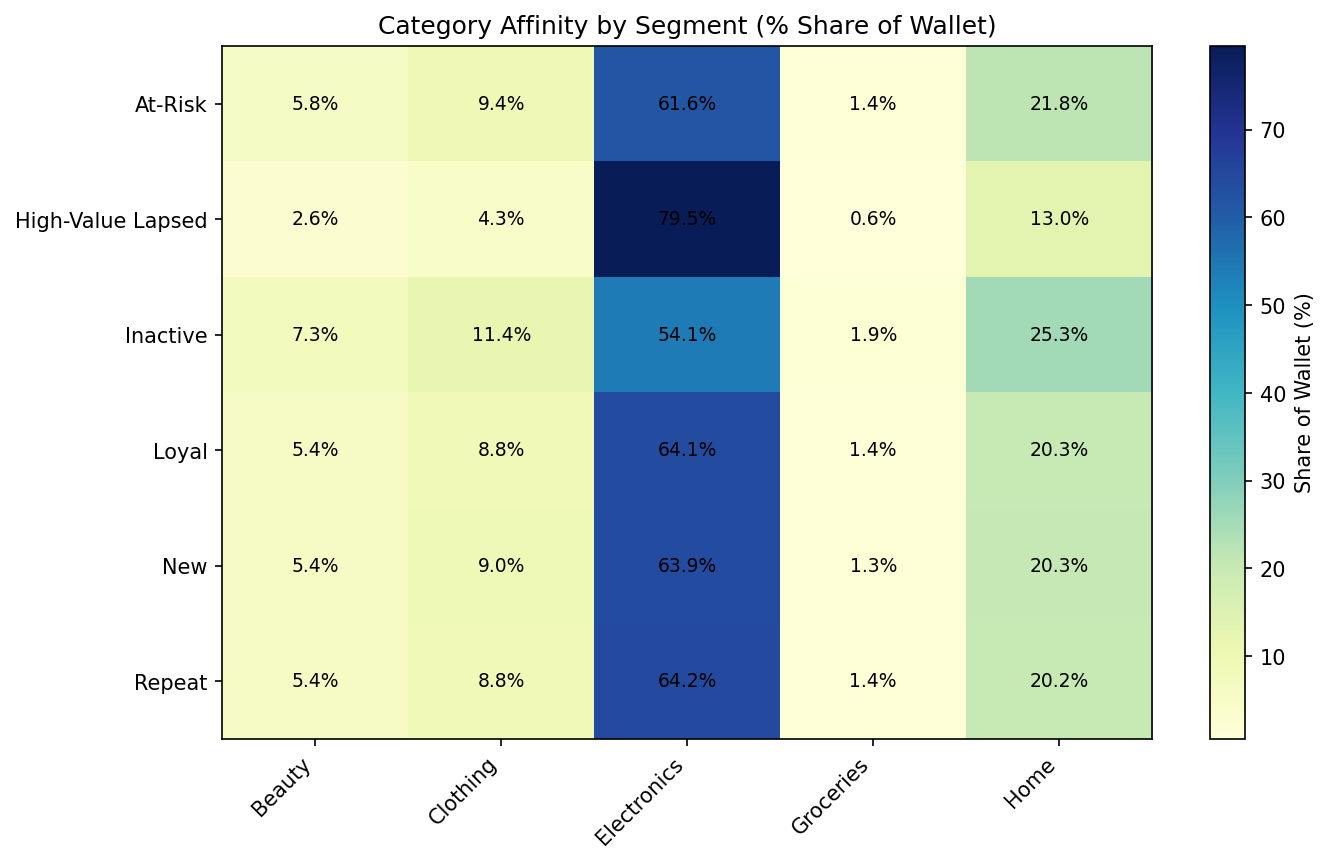
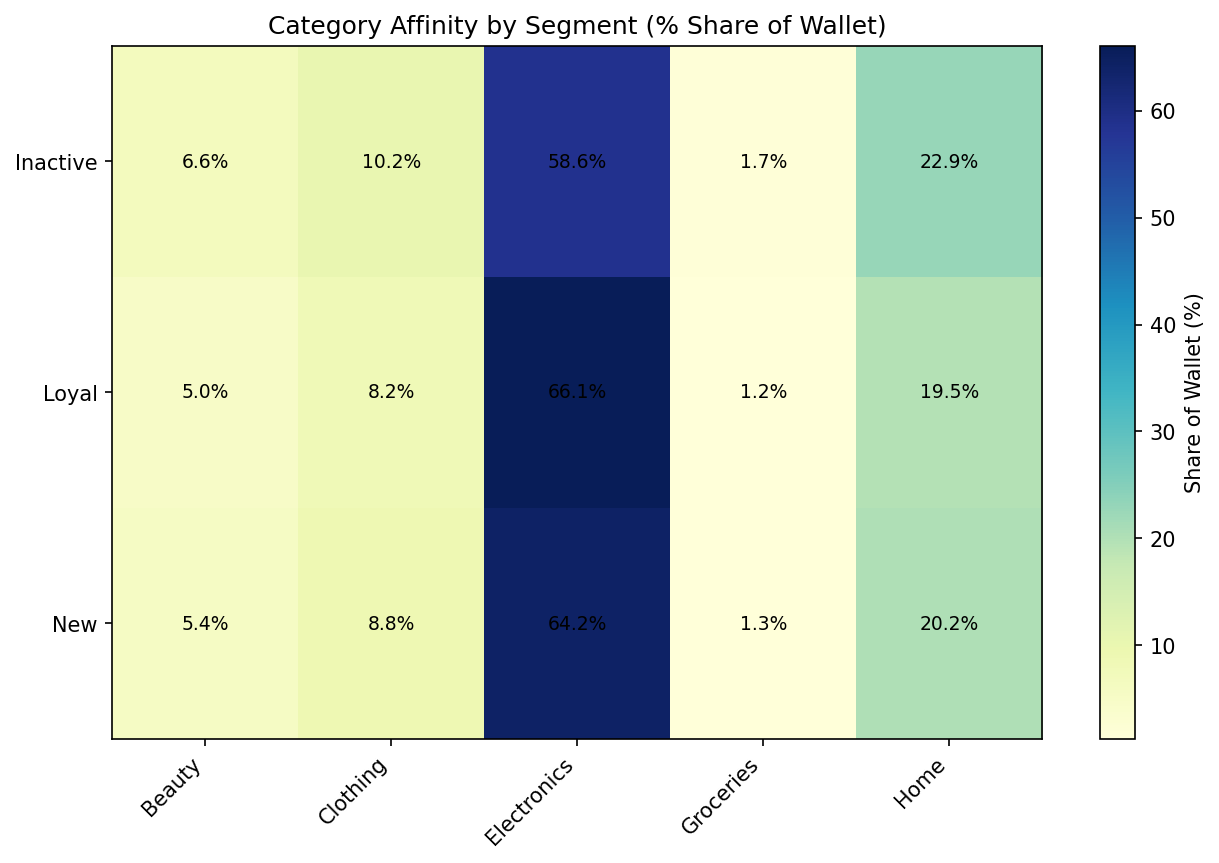
Replace rule-based segmentation with K-Means clustering
Swap hardcoded priority-based segment assignment for a data-driven
K-Means pipeline that automatically selects optimal k via silhouette
score analysis (k=2..15). Clusters are auto-labeled based on centroid
characteristics. Recommendations are now generated dynamically from
cluster stats instead of a fixed segment-to-action dict.

diff --git a/scripts/customer_intelligence.py b/scripts/customer_intelligence.py
@@ -1,13 +1,13 @@
 """
 Retail Brain — Customer Intelligence Pipeline
 
-Generates customer segmentation, churn predictions, category affinity analysis,
-and re-engagement recommendations from transaction data.
+Generates K-Means customer segmentation, churn predictions, category affinity
+analysis, and re-engagement recommendations from transaction data.
 
 Outputs (in data/customer_intelligence/):
   CSVs:  rfm_scores.csv, segment_summary.csv, category_affinity.csv,
          churn_predictions.csv, recommendations.csv
-  PNGs:  segment_distribution.png, rfm_heatmap.png,
+  PNGs:  cluster_selection.png, segment_distribution.png, rfm_heatmap.png,
          churn_feature_importance.png, category_affinity_heatmap.png
 
 Usage:
@@ -23,9 +23,11 @@ matplotlib.use("Agg")
 import matplotlib.pyplot as plt
 import numpy as np
 import pandas as pd
+from sklearn.cluster import KMeans
 from sklearn.ensemble import RandomForestClassifier
-from sklearn.metrics import classification_report, roc_auc_score
+from sklearn.metrics import classification_report, roc_auc_score, silhouette_score
 from sklearn.model_selection import train_test_split
+from sklearn.preprocessing import StandardScaler
 
 warnings.filterwarnings("ignore", category=FutureWarning)
 
@@ -115,10 +117,8 @@ def compute_rfm(customers, transactions):
 # ── Step 3: Behavioral Segments ──────────────────────────────────────────────
 
 def assign_segments(rfm, transactions, customers):
-    """Assign mutually exclusive behavioral segments in priority order."""
-    print("\nAssigning behavioral segments...")
-
-    abv_75th = rfm.loc[rfm["abv"] > 0, "abv"].quantile(0.75)
+    """Assign data-driven segments via K-Means clustering on behavioral features."""
+    print("\nAssigning behavioral segments (K-Means)...")
 
     # H1 vs H2 frequency per customer
     h1_freq = transactions[
@@ -135,32 +135,110 @@ def assign_segments(rfm, transactions, customers):
     rfm["h2_freq"] = rfm["h2_freq"].fillna(0).astype(int)
 
     # Tenure in days
-    signup_lookup = customers.set_index("customer_id")["signup_date"]
     rfm = rfm.merge(
         customers[["customer_id", "signup_date"]], on="customer_id", how="left"
     )
     rfm["tenure_days"] = (REFERENCE_DATE - rfm["signup_date"]).dt.days
 
-    # Assign segments in priority order
-    conditions = [
-        # 1. High-Value Lapsed: top 25% ABV + 180+ days inactive
-        (rfm["abv"] >= abv_75th) & (rfm["recency"] >= 180),
-        # 2. At-Risk: H1→H2 frequency declined 50%+
-        (rfm["h1_freq"] > 0) & (rfm["h2_freq"] <= rfm["h1_freq"] * 0.5),
-        # 3. New: first purchase within 30 days of reference date
-        (rfm["recency"] <= 30) & (rfm["tenure_days"] <= 30),
-        # 4. Loyal: 5+ purchases
-        rfm["frequency"] >= 5,
-        # 5. Repeat: 2-5 purchases, active within 90 days
-        (rfm["frequency"].between(2, 5)) & (rfm["recency"] <= 90),
-    ]
-    choices = ["High-Value Lapsed", "At-Risk", "New", "Loyal", "Repeat"]
+    # Frequency trend
+    rfm["freq_trend"] = rfm["h2_freq"] - rfm["h1_freq"]
 
-    rfm["segment"] = np.select(conditions, choices, default="Inactive")
+    # ── Clustering features ──────────────────────────────────────────────────
+    cluster_features = [
+        "r_score", "f_score", "m_score", "abv",
+        "tenure_days", "h1_freq", "h2_freq", "freq_trend",
+    ]
+    X_raw = rfm[cluster_features].fillna(0).copy()
+    scaler = StandardScaler()
+    X_scaled = scaler.fit_transform(X_raw)
+
+    # ── Optimal k selection (k=2..15) ────────────────────────────────────────
+    K_RANGE = range(2, 16)
+    inertias = []
+    silhouette_scores = []
+
+    print("  Evaluating k=2..15:")
+    for k in K_RANGE:
+        km = KMeans(n_clusters=k, random_state=SEED, n_init=10)
+        labels = km.fit_predict(X_scaled)
+        inertias.append(km.inertia_)
+        sil = silhouette_score(X_scaled, labels)
+        silhouette_scores.append(sil)
+        print(f"    k={k:>2}  silhouette={sil:.4f}  inertia={km.inertia_:,.0f}")
+
+    optimal_k = list(K_RANGE)[np.argmax(silhouette_scores)]
+    print(f"\n  Optimal k = {optimal_k} (silhouette = "
+          f"{max(silhouette_scores):.4f})")
+
+    # Save selection data for plotting
+    rfm.attrs["cluster_selection"] = {
+        "k_range": list(K_RANGE),
+        "inertias": inertias,
+        "silhouette_scores": silhouette_scores,
+        "optimal_k": optimal_k,
+    }
+
+    # ── Final K-Means with optimal k ─────────────────────────────────────────
+    km_final = KMeans(n_clusters=optimal_k, random_state=SEED, n_init=10)
+    rfm["cluster"] = km_final.fit_predict(X_scaled)
+
+    # ── Auto-label clusters based on centroid characteristics ─────────────────
+    centroids = pd.DataFrame(
+        scaler.inverse_transform(km_final.cluster_centers_),
+        columns=cluster_features,
+    )
+    print("\n  Cluster centroids (original scale):")
+    print(centroids.to_string(float_format=lambda x: f"{x:.2f}").replace(
+        "\n", "\n    "
+    ))
+
+    cluster_labels = {}
+    for c in range(optimal_k):
+        row = centroids.iloc[c]
+        med_recency = centroids["r_score"].median()
+        med_freq = centroids["f_score"].median()
+        med_monetary = centroids["m_score"].median()
+        med_abv = centroids["abv"].median()
+        med_tenure = centroids["tenure_days"].median()
+        med_trend = centroids["freq_trend"].median()
+
+        high_recency = row["r_score"] < med_recency   # low r_score = high recency (days)
+        high_freq = row["f_score"] > med_freq
+        high_monetary = row["m_score"] > med_monetary
+        high_abv = row["abv"] > med_abv
+        short_tenure = row["tenure_days"] < med_tenure
+        declining = row["freq_trend"] < med_trend
+
+        if high_recency and high_abv:
+            label = "High-Value Lapsed"
+        elif high_freq and not high_recency:
+            label = "Loyal"
+        elif declining and not high_recency:
+            label = "At-Risk"
+        elif not high_recency and short_tenure:
+            label = "New"
+        elif not high_recency and not high_freq:
+            label = "Nurture"
+        elif high_recency and not high_abv:
+            label = "Inactive"
+        else:
+            label = f"Cluster-{c}"
+
+        # Deduplicate labels by appending cluster number if needed
+        if label in cluster_labels.values():
+            label = f"{label}-{c}"
+        cluster_labels[c] = label
+
+    rfm["segment"] = rfm["cluster"].map(cluster_labels)
+
+    print("\n  Cluster labels:")
+    for c, label in sorted(cluster_labels.items()):
+        count = (rfm["cluster"] == c).sum()
+        print(f"    Cluster {c} → {label:<22} ({count:>7,} customers)")
 
     # Print segment distribution
     seg_counts = rfm["segment"].value_counts()
-    print("  Segment distribution:")
+    print("\n  Segment distribution:")
     for seg, count in seg_counts.items():
         print(f"    {seg:<22} {count:>7,}  ({count / len(rfm) * 100:.1f}%)")
 
@@ -276,58 +354,78 @@ def compute_category_affinity(rfm, transactions, items, products):
 
 # ── Step 6: Recommendations ─────────────────────────────────────────────────
 
-def generate_recommendations(affinity_pivot):
-    """Generate per-segment timing and action recommendations."""
+def generate_recommendations(rfm, affinity_pivot):
+    """Generate per-segment timing and action recommendations dynamically."""
     print("\nGenerating re-engagement recommendations...")
 
-    recs = {
-        "New": {
-            "timing": "Within 7 days of first purchase",
-            "action_template": "Welcome offer: 10-15% discount on {top_cat}; "
-                               "onboarding email series",
-        },
-        "Repeat": {
-            "timing": "Every 21-30 days",
-            "action_template": "Loyalty enrollment; bundle offers on "
-                               "{top_cat} + {second_cat}",
-        },
-        "Loyal": {
-            "timing": "Bi-weekly touchpoint",
-            "action_template": "VIP early access to {top_cat}; "
-                               "referral program; exclusive previews",
-        },
-        "High-Value Lapsed": {
-            "timing": "Immediate (within 7 days)",
-            "action_template": "20-25% win-back discount on {top_cat}; "
-                               "personal outreach",
-        },
-        "At-Risk": {
-            "timing": "Within 14 days",
-            "action_template": "15% retention offer on {top_cat}; "
-                               "feedback survey; personalized {second_cat} picks",
-        },
-        "Inactive": {
-            "timing": "Quarterly batch",
-            "action_template": "Low-cost seasonal email featuring {top_cat}; "
-                               "re-activation coupon",
-        },
+    # Compute per-segment averages to drive recommendation logic
+    seg_stats = rfm.groupby("segment").agg(
+        avg_recency=("recency", "mean"),
+        avg_frequency=("frequency", "mean"),
+        avg_abv=("abv", "mean"),
+        avg_tenure=("tenure_days", "mean"),
+        avg_freq_trend=("freq_trend", "mean"),
+    )
+
+    global_medians = {
+        "recency": rfm["recency"].median(),
+        "frequency": rfm["frequency"].median(),
+        "abv": rfm["abv"].median(),
+        "tenure": rfm["tenure_days"].median(),
     }
 
     rows = []
-    for segment, cfg in recs.items():
-        if segment in affinity_pivot.index:
-            sorted_cats = affinity_pivot.loc[segment].sort_values(ascending=False)
-            top_cat = sorted_cats.index[0]
-            second_cat = sorted_cats.index[1] if len(sorted_cats) > 1 else top_cat
-        else:
-            top_cat, second_cat = "top category", "second category"
+    for segment in affinity_pivot.index:
+        sorted_cats = affinity_pivot.loc[segment].sort_values(ascending=False)
+        top_cat = sorted_cats.index[0]
+        second_cat = sorted_cats.index[1] if len(sorted_cats) > 1 else top_cat
 
-        action = cfg["action_template"].format(
-            top_cat=top_cat, second_cat=second_cat
-        )
+        stats = seg_stats.loc[segment]
+        high_recency = stats["avg_recency"] > global_medians["recency"]
+        high_freq = stats["avg_frequency"] > global_medians["frequency"]
+        high_abv = stats["avg_abv"] > global_medians["abv"]
+        short_tenure = stats["avg_tenure"] < global_medians["tenure"]
+        declining = stats["avg_freq_trend"] < 0
+
+        # Determine timing and action based on cluster characteristics
+        if high_recency and high_abv:
+            # High-value lapsed → aggressive win-back
+            timing = "Immediate (within 7 days)"
+            action = (f"20-25% win-back discount on {top_cat}; "
+                      f"personal outreach; {second_cat} recommendations")
+        elif high_freq and not high_recency:
+            # Loyal / active frequent buyers → VIP treatment
+            timing = "Bi-weekly touchpoint"
+            action = (f"VIP early access to {top_cat}; "
+                      f"referral program; exclusive {second_cat} previews")
+        elif declining:
+            # Declining frequency → retention offers
+            timing = "Within 14 days"
+            action = (f"15% retention offer on {top_cat}; "
+                      f"feedback survey; personalized {second_cat} picks")
+        elif not high_recency and short_tenure:
+            # New / recent with short tenure → onboarding
+            timing = "Within 7 days of first purchase"
+            action = (f"Welcome offer: 10-15% discount on {top_cat}; "
+                      f"onboarding email series")
+        elif not high_recency and not high_freq:
+            # Low frequency, still active → nurture / enrollment
+            timing = "Every 21-30 days"
+            action = (f"Loyalty enrollment; bundle offers on "
+                      f"{top_cat} + {second_cat}")
+        elif high_recency and not high_abv:
+            # Inactive / low value lapsed → low-cost re-activation
+            timing = "Quarterly batch"
+            action = (f"Low-cost seasonal email featuring {top_cat}; "
+                      f"re-activation coupon")
+        else:
+            timing = "Monthly"
+            action = (f"Cross-sell {second_cat} to {top_cat} buyers; "
+                      f"engagement campaign")
+
         rows.append({
             "segment": segment,
-            "recommended_timing": cfg["timing"],
+            "recommended_timing": timing,
             "recommended_action": action,
             "top_affinity_category": top_cat,
         })
@@ -343,6 +441,49 @@ def generate_recommendations(affinity_pivot):
 
 
 # ── Visualizations ──────────────────────────────────────────────────────────
+
+def plot_cluster_selection(rfm):
+    """Dual-axis plot of elbow (inertia) and silhouette score for k selection."""
+    sel = rfm.attrs["cluster_selection"]
+    k_range = sel["k_range"]
+    inertias = sel["inertias"]
+    sil_scores = sel["silhouette_scores"]
+    optimal_k = sel["optimal_k"]
+
+    fig, ax1 = plt.subplots(figsize=(10, 5))
+
+    # Elbow curve (inertia) on left axis
+    color1 = "#3498db"
+    ax1.plot(k_range, inertias, "o-", color=color1, label="Inertia (elbow)")
+    ax1.set_xlabel("Number of Clusters (k)")
+    ax1.set_ylabel("Inertia", color=color1)
+    ax1.tick_params(axis="y", labelcolor=color1)
+
+    # Silhouette score on right axis
+    ax2 = ax1.twinx()
+    color2 = "#e74c3c"
+    ax2.plot(k_range, sil_scores, "s-", color=color2, label="Silhouette Score")
+    ax2.set_ylabel("Silhouette Score", color=color2)
+    ax2.tick_params(axis="y", labelcolor=color2)
+
+    # Mark optimal k
+    ax2.axvline(x=optimal_k, color="#2ecc71", linestyle="--", linewidth=1.5,
+                label=f"Optimal k = {optimal_k}")
+
+    # Combined legend
+    lines1, labels1 = ax1.get_legend_handles_labels()
+    lines2, labels2 = ax2.get_legend_handles_labels()
+    ax1.legend(lines1 + lines2, labels1 + labels2, loc="center right")
+
+    ax1.set_title("K-Means Cluster Selection — Elbow & Silhouette Analysis")
+    ax1.set_xticks(k_range)
+    fig.tight_layout()
+
+    path = os.path.join(OUTPUT_DIR, "cluster_selection.png")
+    fig.savefig(path, dpi=150, bbox_inches="tight")
+    plt.close(fig)
+    print(f"  Saved {path}")
+
 
 def plot_segment_distribution(rfm):
     """Pie chart of segment sizes."""
@@ -509,13 +650,14 @@ def main():
     )
 
     # Step 6: Recommendations
-    recs_df = generate_recommendations(affinity_pivot)
+    recs_df = generate_recommendations(rfm, affinity_pivot)
 
     # Save CSVs
     save_outputs(rfm, affinity, recs_df)
 
     # Save visualizations
     print("\nGenerating visualizations...")
+    plot_cluster_selection(rfm)
     plot_segment_distribution(rfm)
     plot_rfm_heatmap(rfm)
     plot_churn_feature_importance(clf, feature_cols)

diff --git a/README.md b/README.md
@@ -120,16 +120,14 @@ python scripts/customer_intelligence.py
 **Pipeline steps:**
 
 1. **RFM Analysis** — Recency, Frequency, Monetary scores with quintile rankings for all ~100k customers
-2. **Behavioral Segmentation** — Mutually exclusive segments assigned in priority order:
-   - **High-Value Lapsed** — Top 25% ABV + 180+ days inactive
-   - **At-Risk** — H1→H2 2025 frequency declined 50%+
-   - **New** — First purchase within 30 days of reference date
-   - **Loyal** — 5+ purchases
-   - **Repeat** — 2-5 purchases, active within 90 days
-   - **Inactive** — Everyone else
+2. **K-Means Segmentation** — Data-driven clustering replaces rule-based segments:
+   - Features: `r_score`, `f_score`, `m_score`, `abv`, `tenure_days`, `h1_freq`, `h2_freq`, `freq_trend`
+   - StandardScaler normalization before clustering
+   - Optimal k selected from k=2..15 via highest silhouette score (elbow + silhouette dual plot saved as `cluster_selection.png`)
+   - Clusters auto-labeled based on centroid characteristics (e.g., high recency + high ABV → "High-Value Lapsed", high frequency + low recency → "Loyal")
 3. **Churn Prediction** — Random Forest classifier (200 trees) trained on RFM scores, tenure, frequency trends, and purchase cadence; outputs per-customer churn probability and risk tier (Low/Medium/High)
 4. **Category Affinity** — Share-of-wallet analysis per segment across 5 product categories
-5. **Re-engagement Recommendations** — Per-segment timing and action recommendations referencing top affinity categories
+5. **Re-engagement Recommendations** — Dynamically generated per-segment timing and action recommendations based on cluster characteristics and top affinity categories
 
 **Outputs** (in `data/customer_intelligence/`):
 
@@ -140,6 +138,7 @@ python scripts/customer_intelligence.py
 | `category_affinity.csv` | Segment x category affinity percentages |
 | `churn_predictions.csv` | Per-customer churn probability and risk tier |
 | `recommendations.csv` | Timing and action per segment |
+| `cluster_selection.png` | Elbow + silhouette dual plot for optimal k selection |
 | `segment_distribution.png` | Pie chart of segment sizes |
 | `rfm_heatmap.png` | Average RFM scores by segment |
 | `churn_feature_importance.png` | Random Forest feature importances |
